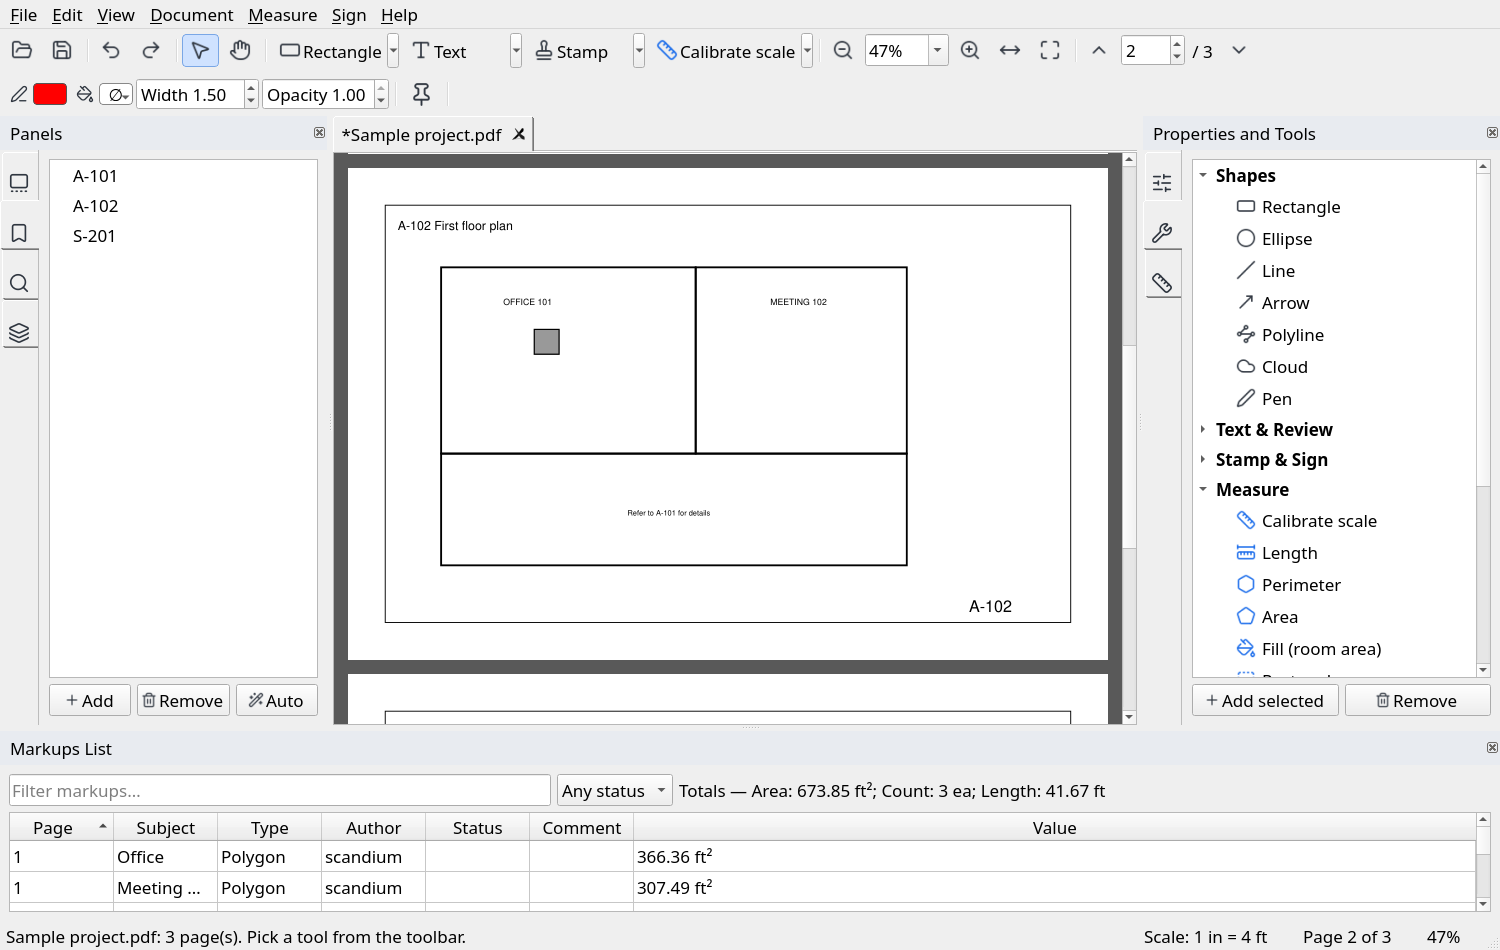
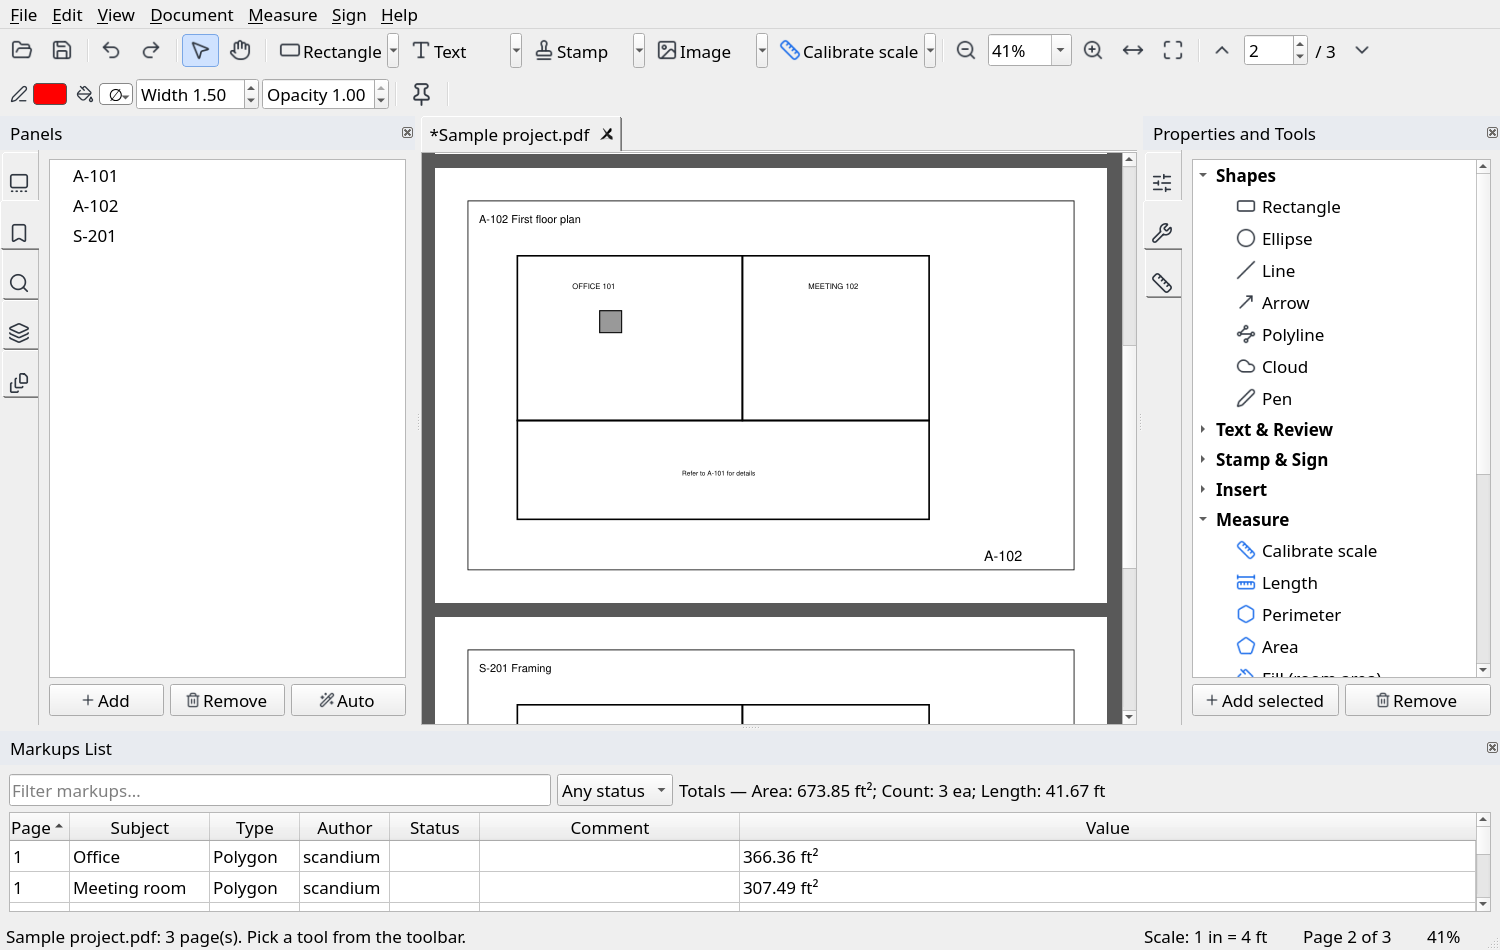
Sheets panel: clean titles, columns that always fit, tooltips; new screenshot

diff --git a/openrevu/gui.py b/openrevu/gui.py
@@ -1178,7 +1178,7 @@ class Main(DocumentOps, W.QMainWindow):
                     self.meas_table.setItem(k, c, W.QTableWidgetItem(v))
         t.setSortingEnabled(True)
         if not getattr(self, "_mk_widths_set", False):
-            for col, width in enumerate((50, 140, 90, 90, 90, 260, 100)):
+            for col, width in enumerate((60, 140, 90, 90, 90, 260, 100)):
                 t.setColumnWidth(col, width)
             self._mk_widths_set = True
         self._rebuild_custom_fields()
@@ -1261,6 +1261,10 @@ class Main(DocumentOps, W.QMainWindow):
         if self.panel_name(self.left_tabs, self.left_tabs.currentIndex()) != "Sheets" or self.left_dock.isHidden():
             return
         t = self.sheets_table
+        if not getattr(self, "_sheets_widened", False):       # the table needs more room than the other panels
+            self._sheets_widened = True
+            if self.left_dock.width() < 390:
+                self.resizeDocks([self.left_dock], [400], QtCore.Qt.Horizontal)
         keep = set(self.sheets_selected_pages())
         t.blockSignals(True)
         t.setRowCount(0)
@@ -1274,12 +1278,22 @@ class Main(DocumentOps, W.QMainWindow):
                 it = W.QTableWidgetItem(v)
                 if c in (0, 4):
                     it.setFlags(it.flags() & ~QtCore.Qt.ItemIsEditable)
+                if c in (1, 2, 3):
+                    it.setToolTip(v)                  # the full text, when the column is narrow
                 if c == 4 and info["revisions"]:
                     it.setToolTip("\n".join(f"{x['rev']}  {x['date']}  {x['description']}" for x in info["revisions"]))
                 t.setItem(i, c, it)
             if r["page"] - 1 in keep:  # selectRow would drop the earlier rows, so add each row to the selection
                 t.selectionModel().select(t.model().index(i, 0), QtCore.QItemSelectionModel.Select | QtCore.QItemSelectionModel.Rows)
         t.blockSignals(False)
+        if not getattr(self, "_sheet_widths_set", False):
+            hh = t.horizontalHeader()
+            hh.setSectionResizeMode(W.QHeaderView.Interactive)
+            hh.setSectionResizeMode(2, W.QHeaderView.Stretch)    # the title takes the room that is left, so no scrolling
+            hh.setStretchLastSection(False)
+            for col, width in ((0, 40), (1, 66), (3, 96), (4, 40)):
+                t.setColumnWidth(col, width)
+            self._sheet_widths_set = True
 
     def sheets_selected_pages(self) -> list[int]:
         return sorted({int(self.sheets_table.item(i.row(), 0).text()) - 1 for i in self.sheets_table.selectedIndexes()})

diff --git a/tests/test_gui_sheets.py b/tests/test_gui_sheets.py
@@ -138,3 +138,13 @@ def test_revision_on_several_selected_sheets_keeps_the_selection(win, monkeypatc
     w.add_revision_dialog()
     assert [w.doc.current_revision(i) for i in range(3)] == ["R1", "", "R1"]
     assert w.sheets_selected_pages() == [0, 2]
+
+
+def test_the_panel_is_widened_so_every_column_is_visible(app, tmp_path):
+    w = Main(make_set(tmp_path / "set.pdf", SET_V1)); w.resize(1400, 900); w.show(); app.processEvents()
+    w.show_panel("Sheets"); app.processEvents(); app.processEvents()
+    assert w.left_dock.width() >= 380
+    assert not w.sheets_table.horizontalScrollBar().isVisible()                    # every column fits, at this width
+    assert w.sheets_table.columnWidth(2) >= 80                                       # the title keeps a usable width
+    w.resizeDocks([w.left_dock], [230], QtCore.Qt.Horizontal); app.processEvents()
+    assert not w.sheets_table.horizontalScrollBar().isVisible()                    # and when the panel is narrow

diff --git a/tests/test_sheets.py b/tests/test_sheets.py
@@ -233,3 +233,15 @@ def test_a_failure_halfway_restores_the_document(v1, tmp_path, monkeypatch):
         d.insert_pdf(other, pages=[0, 99])        # checked before the first page is inserted
     assert d.page_count == 3
     d.add_rect(0, fitz.Rect(60, 60, 90, 90)); assert len(d.markups()) == 2     # the document is still fully usable
+
+
+def test_title_does_not_repeat_the_sheet_number(tmp_path):
+    d = fitz.open(); p = d.new_page()
+    p.insert_text((400, 740), "A-101", fontsize=28)
+    p.insert_text((72, 90), "A-101 - Ground floor plan", fontsize=16)
+    p.insert_text((72, 130), "A-101: Ground floor plan", fontsize=12)
+    q = d.new_page(); q.insert_text((400, 740), "S-2", fontsize=28); q.insert_text((72, 90), "S-2", fontsize=16)
+    path = str(tmp_path / "t.pdf"); d.save(path)
+    doc = Document(path)
+    assert doc.sheet_info(0)["title"] == "Ground floor plan"
+    assert doc.sheet_info(1)["title"] == ""                  # nothing but the number: no title

diff --git a/docs/make_screenshots.py b/docs/make_screenshots.py
@@ -75,6 +75,15 @@ def main():
         QtCore.QThread.msleep(20)
     w.grab().save(os.path.join(OUT, "main-window.png"))
 
+    # sheets panel with revisions
+    w.cv.select(None)
+    d.detect_sheets(); d.add_revision(0, "A", "Issued for review", date="2026-09-01"); d.add_revision(0, "B", "Walls moved", date="2026-10-02")
+    d.add_revision(1, "A", "Issued for review", date="2026-09-01"); d.set_sheet(0, discipline="Architecture"); d.set_sheet(1, discipline="Architecture")
+    d.set_sheet(2, discipline="Structure")
+    w.show_panel("Sheets"); w.show_panel("Measurements"); w.refresh_sheets()
+    for _ in range(10):
+        app.processEvents()
+    w.grab().save(os.path.join(OUT, "sheets-panel.png"))
     w.show_panel("Bookmarks"); w.show_panel("Tool Chest"); w.cv.select(None); w.cv.goto_page(1)
     for _ in range(10):
         app.processEvents()

diff --git a/openrevu/sheets.py b/openrevu/sheets.py
@@ -90,6 +90,8 @@ class SheetOps:
         number = max(((s, t) for s, t, _ in spans if rx.fullmatch(t)), default=(0, None))[1]
         titles = [(s, t) for s, t, _ in spans if t != number and sum(c.isalpha() for c in t) >= 3 and not rx.fullmatch(t)]
         title = max(titles, default=(0, ""))[1]
+        if number and title.startswith(number):            # "A-101 Ground floor plan" -> "Ground floor plan"
+            title = title[len(number):].lstrip(" -\u2013\u2014:.\t")
         return number, title
 
     def sheet_info(self, pno: int, detect: bool = True) -> dict:

diff --git a/README.md b/README.md
@@ -221,6 +221,8 @@ The record is stored in the PDF, on the page. It stays with the page when you mo
   Sheets that are only in the new file are added at the end.
 - Make a bookmark for each sheet, and a link from each sheet reference (for example "see A-102") to its page.
 
+![The Sheets panel](docs/sheets-panel.png)
+
 The command `openrevu-cli sheets` makes the bookmarks and links in a batch.
 
 ### Pages
